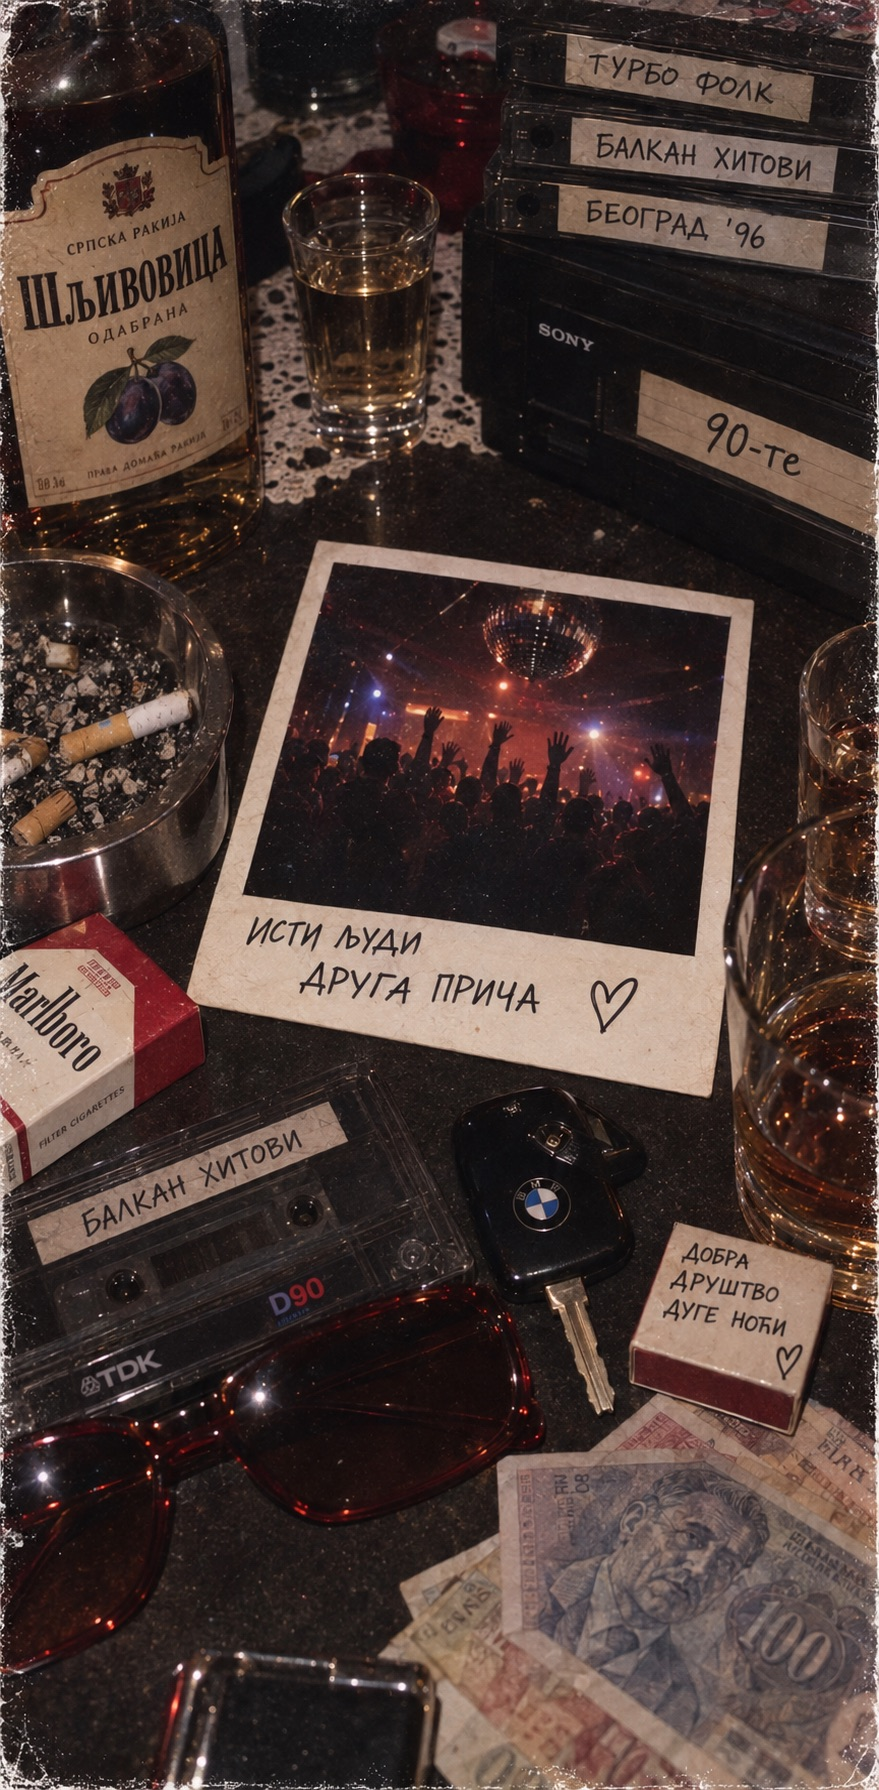
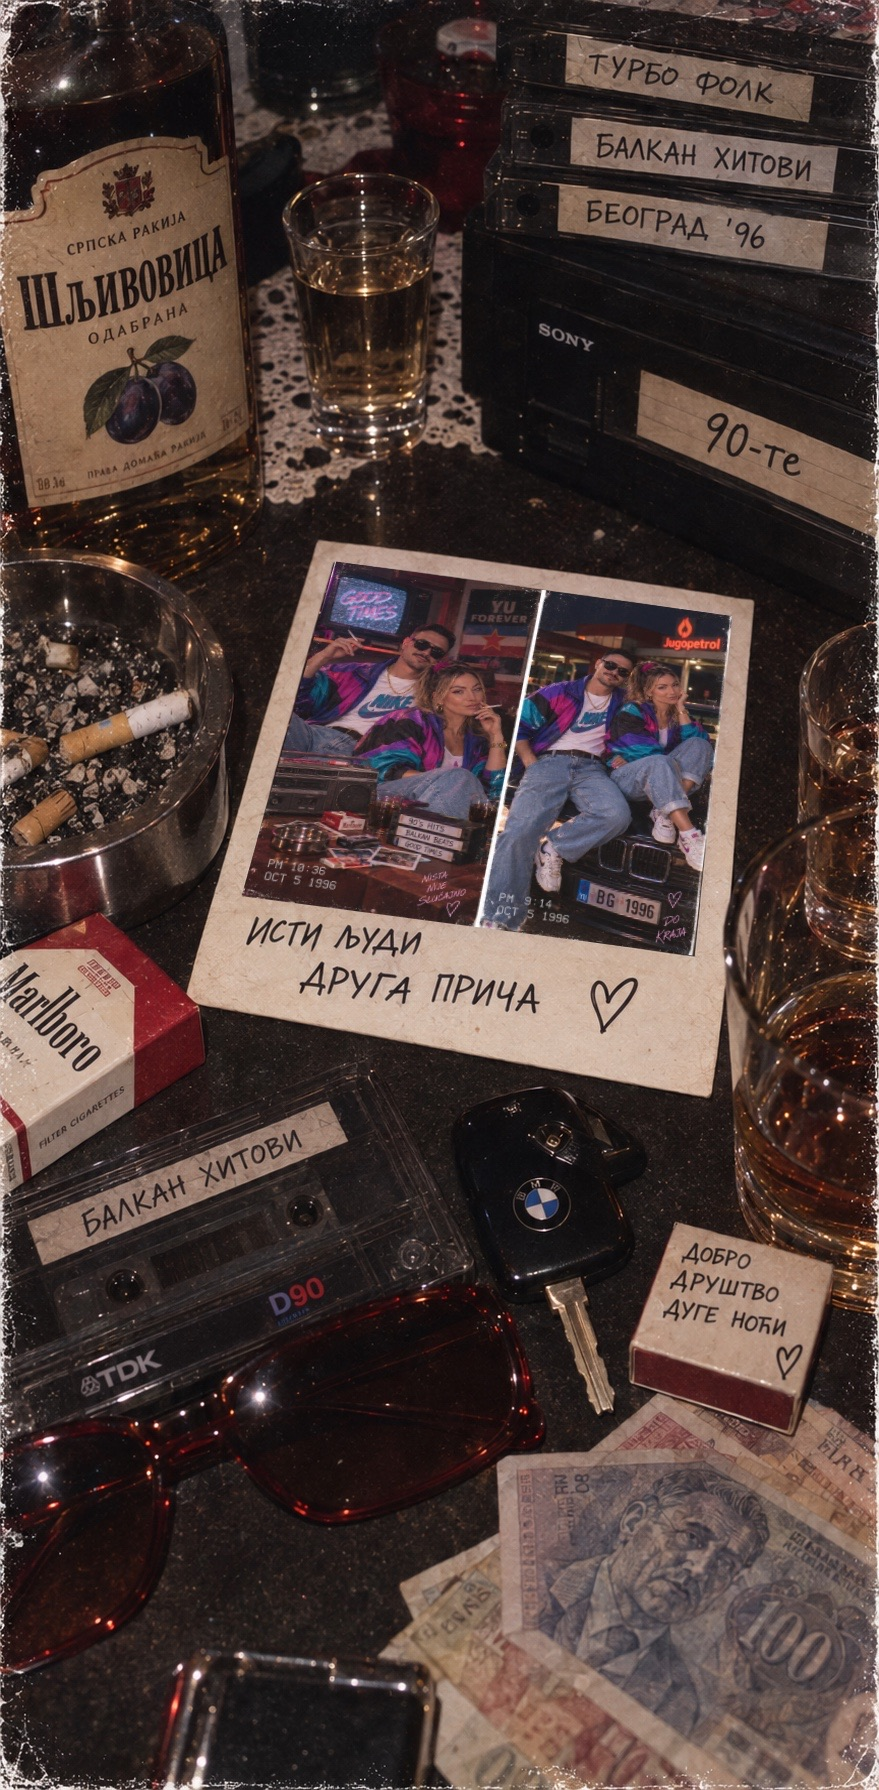
Update hero background photo, switch name font to Azeret Mono, scale hero text up 7%
Replaces assets/hero-bg.jpg with the new provided photo (same ~35%
visibility treatment). Swaps the name font to 'Azeret Mono' and
increases the eyebrow, name, subtitle, date, dresscode and CTA
button sizes by 7%, scoped to the hero button only so the RSVP and
gallery buttons stay unchanged.

Changed region(s): [[0.2765, 0.3073, 0.8294, 0.5531]]

diff --git a/public/css/style.css b/public/css/style.css
@@ -5,7 +5,7 @@
   --card-bg: rgba(255, 255, 255, 0.92);
   --card-shadow: 0 12px 32px rgba(0, 0, 0, 0.12);
   --font-display: 'Cormorant Garamond', serif;
-  --font-script: 'Luckiest Guy', cursive;
+  --font-script: 'Azeret Mono', monospace;
   --font-body: 'Jost', sans-serif;
   --content-width: 560px;
 }
@@ -89,15 +89,15 @@ a { color: inherit; }
 .eyebrow {
   text-transform: uppercase;
   letter-spacing: 0.2em;
-  font-size: 1.05rem;
+  font-size: 1.12rem;
   color: rgba(255, 255, 255, 0.85);
   margin-bottom: 10px;
 }
 
 .names {
   font-family: var(--font-script);
-  font-weight: 400;
-  font-size: clamp(3.6rem, 16vw, 6.5rem);
+  font-weight: 700;
+  font-size: clamp(3.85rem, 17.1vw, 6.96rem);
   line-height: 1.1;
   letter-spacing: 0.02em;
   text-shadow: 3px 3px 0 rgba(0, 0, 0, 0.35);
@@ -112,20 +112,20 @@ a { color: inherit; }
   font-family: var(--font-display);
   font-style: italic;
   color: var(--color-accent);
-  font-size: clamp(1.7rem, 5vw, 2.4rem);
+  font-size: clamp(1.82rem, 5.35vw, 2.57rem);
   margin-top: -4px;
 }
 
 .date, .dresscode {
   margin-top: 14px;
-  font-size: 1.3rem;
+  font-size: 1.39rem;
   color: rgba(255, 255, 255, 0.9);
   letter-spacing: 0.04em;
 }
 
 .dresscode {
   text-transform: uppercase;
-  font-size: 1.05rem;
+  font-size: 1.12rem;
 }
 
 .btn {
@@ -144,6 +144,11 @@ a { color: inherit; }
 }
 
 .btn:hover { opacity: 0.85; }
+
+.hero .btn {
+  padding: 17px 39px;
+  font-size: 1.18rem;
+}
 
 .site-nav {
   position: sticky;

diff --git a/public/index.html b/public/index.html
@@ -7,7 +7,7 @@
   <meta name="description" content="Pozivnica za 30. rođendan — pridružite se proslavi!" data-i18n-attr-content="page_description">
   <link rel="preconnect" href="https://fonts.googleapis.com">
   <link rel="preconnect" href="https://fonts.gstatic.com" crossorigin>
-  <link href="https://fonts.googleapis.com/css2?family=Cormorant+Garamond:ital,wght@0,400;0,600;1,400&family=Luckiest+Guy&family=Jost:wght@300;400;500&display=swap" rel="stylesheet">
+  <link href="https://fonts.googleapis.com/css2?family=Cormorant+Garamond:ital,wght@0,400;0,600;1,400&family=Azeret+Mono:wght@500;700&family=Jost:wght@300;400;500&display=swap" rel="stylesheet">
   <link rel="stylesheet" href="css/style.css">
 </head>
 <body>
